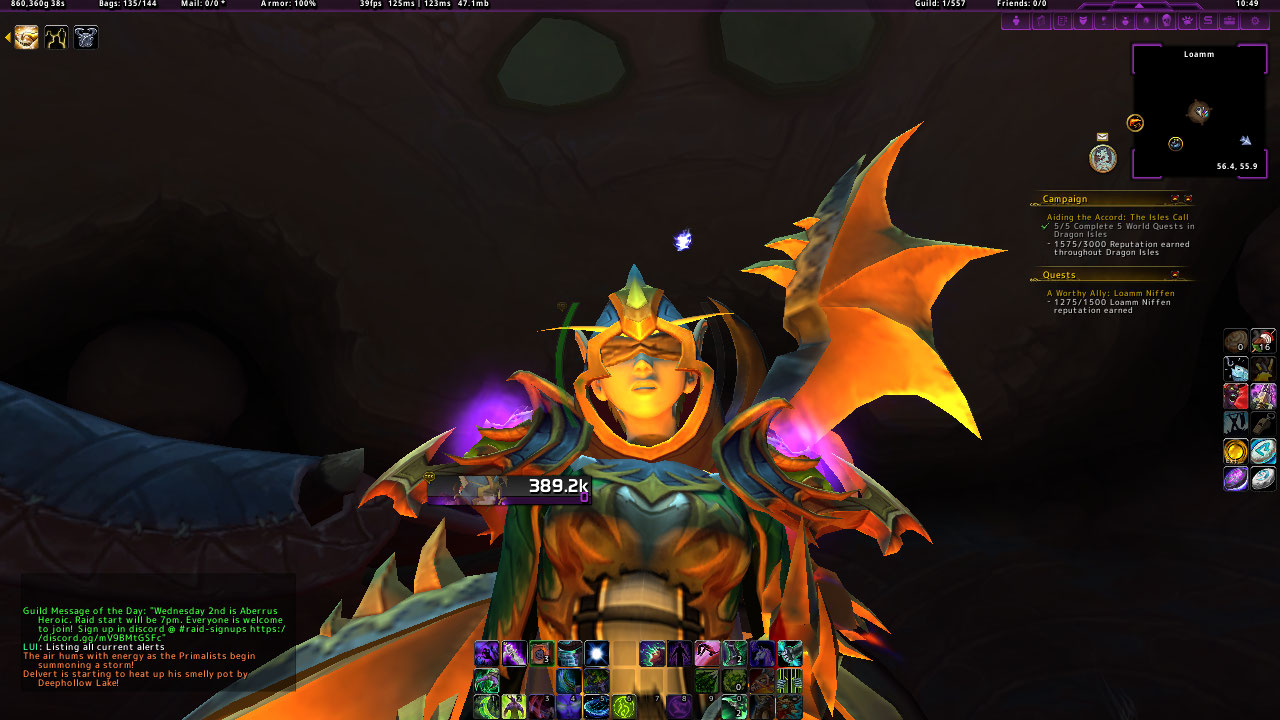
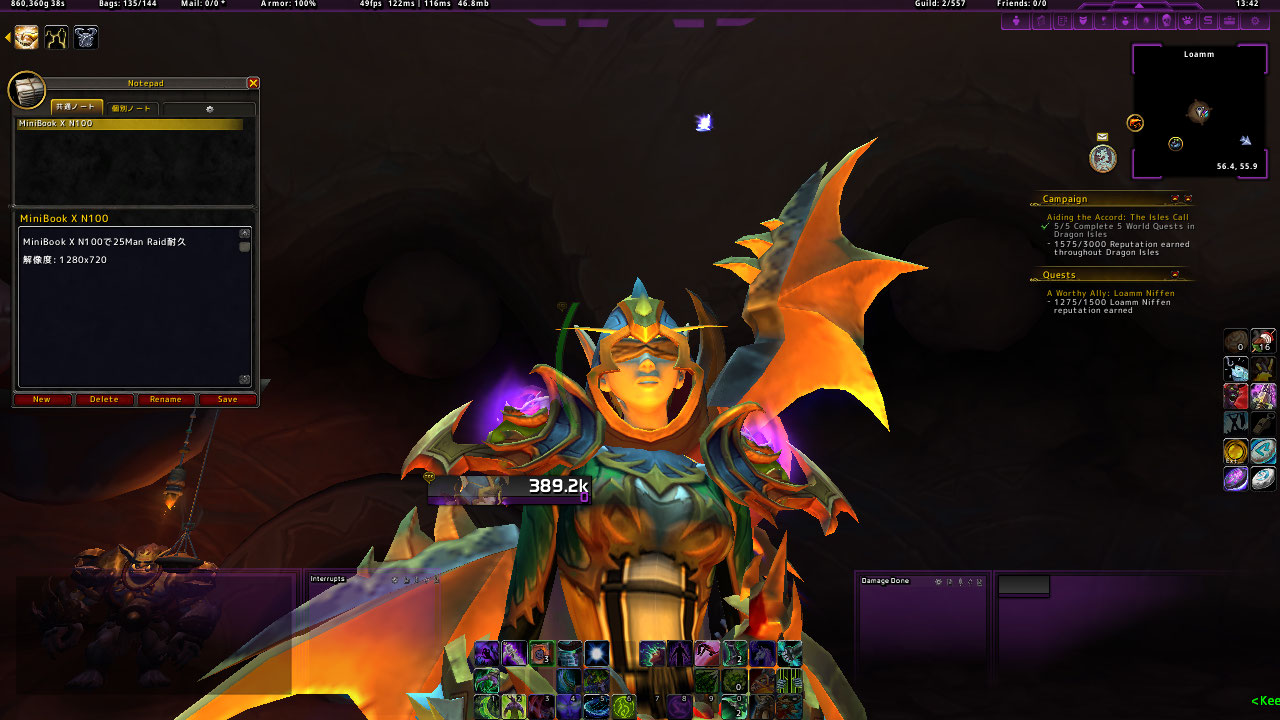
Hexo deploy

diff --git a/2023/08/08/CHUWI-Minibook-X-N100/index.html b/2023/08/08/CHUWI-Minibook-X-N100/index.html
@@ -171,7 +171,7 @@
 <li>A: Windows 11 Home</li>
 <li>B: Ubuntu 23.04</li>
 </ul>
-<h4 id="本体確認結果-動作OK-✔-動作せず-✗-未確認"><a href="#本体確認結果-動作OK-✔-動作せず-✗-未確認" class="headerlink" title="本体確認結果 (動作OK: ✔ &#x2F; 動作せず: ✗ &#x2F; 未確認:  )"></a>本体確認結果 (動作OK: ✔ &#x2F; 動作せず: ✗ &#x2F; 未確認: <code> </code>)</h4><div id="googleChart5669"></div>
+<h4 id="本体確認結果-動作OK-✔-動作せず-✗-未確認"><a href="#本体確認結果-動作OK-✔-動作せず-✗-未確認" class="headerlink" title="本体確認結果 (動作OK: ✔ &#x2F; 動作せず: ✗ &#x2F; 未確認:  )"></a>本体確認結果 (動作OK: ✔ &#x2F; 動作せず: ✗ &#x2F; 未確認: <code> </code>)</h4><div id="googleChart9096"></div>
 <script>
   if (!window.google) {
     document.body.innerHTML = 'You need to include the script //google.com/jsapi on your template';
@@ -180,13 +180,13 @@
     (function() {
       google.load('visualization', '1.0', {'packages': ["corechart","geochart","table"]});
       google.setOnLoadCallback(function() {
-        (new google.visualization.Table(document.getElementById("googleChart5669"))).draw(google.visualization.arrayToDataTable([['項目', '仕様', 'A', 'B'],['CPU', 'Intel Alder Lake-N100', "✔", "✔"],['メモリ', '12GB (LPDDR5)', "✔", "✔"],['ストレージ', '512GB (NVMe SSD)', "✔", "✔"],['内蔵ディスプレイ', 'IPS 10.51 inch 1920×1200', "✔", "✔"],['タッチスクリーン', '', "✔", "✔"],['タッチパッド', '', "✔", "✔"],['キーボード/バックライト', '', "✔", "✔"],['Wi-Fi', 'Wi-Fi 6', "✔", "✔"],['Bluetooth', 'Bluetooth 5.2', "", ""],['Audio Jack', '3.5mm (ステレオ)', "✔", "✔"],['内蔵スピーカ', '', "✔", "✔"],['内蔵マイク', '', "", ""],['内蔵カメラ', '', "✔", "✔"],['USB Port #1 (奥)', 'Type-C USB 3.0', "✔", "✔"],['USB Port #2 (手前)', 'Type-C USB 3.0', "✔", "✔"]]),{"showRowNumber":true,"title":"No title","width":"100%","height":"100%"});
+        (new google.visualization.Table(document.getElementById("googleChart9096"))).draw(google.visualization.arrayToDataTable([['項目', '仕様', 'A', 'B'],['CPU', 'Intel Alder Lake-N100', "✔", "✔"],['メモリ', '12GB (LPDDR5)', "✔", "✔"],['ストレージ', '512GB (NVMe SSD)', "✔", "✔"],['内蔵ディスプレイ', 'IPS 10.51 inch 1920×1200', "✔", "✔"],['タッチスクリーン', '', "✔", "✔"],['タッチパッド', '', "✔", "✔"],['キーボード/バックライト', '', "✔", "✔"],['Wi-Fi', 'Wi-Fi 6', "✔", "✔"],['Bluetooth', 'Bluetooth 5.2', "", ""],['Audio Jack', '3.5mm (ステレオ)', "✔", "✔"],['内蔵スピーカ', '', "✔", "✔"],['内蔵マイク', '', "", ""],['内蔵カメラ', '', "✔", "✔"],['USB Port #1 (奥)', 'Type-C USB 3.0', "✔", "✔"],['USB Port #2 (手前)', 'Type-C USB 3.0', "✔", "✔"]]),{"showRowNumber":true,"title":"No title","width":"100%","height":"100%"});
       });
     })();
   }
 </script>
 
-<h4 id="外部機器接続確認結果"><a href="#外部機器接続確認結果" class="headerlink" title="外部機器接続確認結果"></a>外部機器接続確認結果</h4><div id="googleChart1381"></div>
+<h4 id="外部機器接続確認結果"><a href="#外部機器接続確認結果" class="headerlink" title="外部機器接続確認結果"></a>外部機器接続確認結果</h4><div id="googleChart4603"></div>
 <script>
   if (!window.google) {
     document.body.innerHTML = 'You need to include the script //google.com/jsapi on your template';
@@ -195,7 +195,7 @@
     (function() {
       google.load('visualization', '1.0', {'packages': ["corechart","geochart","table"]});
       google.setOnLoadCallback(function() {
-        (new google.visualization.Table(document.getElementById("googleChart1381"))).draw(google.visualization.arrayToDataTable([['項目', '仕様', 'A', 'B'],['外部ディスプレイ接続', '4K Dell', "✔", "✔"],['外部タッチスクリーンディスプレイ', 'FHD Touch Screen(USB Type-C)', "✔", ""],['ゲームパッド', 'Microsoft', "", ""],['Bluetooth ヘッドセット #1', 'Sony', "", ""],['Bluetooth ヘッドセット #2', '', "", ""],['USB Camera', 'Logi', "", ""],['USB Mouse', 'Logi', "", ""],['Bluetooth Mouse', 'Logi', "", ""],['タッチペン', '', "", ""],['USB-LAN', '', "", ""],['Video Capture', '別PC のHDMI出力 → MiniBook X のUSB-Cポート', "", ""]]),{"showRowNumber":true,"title":"No title","width":"100%","height":"100%"});
+        (new google.visualization.Table(document.getElementById("googleChart4603"))).draw(google.visualization.arrayToDataTable([['項目', '仕様', 'A', 'B'],['外部ディスプレイ接続', '4K Dell', "✔", "✔"],['外部タッチスクリーンディスプレイ', 'FHD Touch Screen(USB Type-C)', "✔", ""],['ゲームパッド', 'Microsoft', "", ""],['Bluetooth ヘッドセット #1', 'Sony', "", ""],['Bluetooth ヘッドセット #2', '', "", ""],['USB Camera', 'Logi', "", ""],['USB Mouse', 'Logi', "", ""],['Bluetooth Mouse', 'Logi', "", ""],['タッチペン', '', "", ""],['USB-LAN', '', "", ""],['Video Capture', '別PC のHDMI出力 → MiniBook X のUSB-Cポート', "", ""]]),{"showRowNumber":true,"title":"No title","width":"100%","height":"100%"});
       });
     })();
   }
@@ -217,16 +217,14 @@
 <li>Visual Studio Code またはcode-server<br><a href="https://ktkr3d.github.io/Visual-Studio-Code/">https://ktkr3d.github.io/Visual-Studio-Code/</a></li>
 <li>Kodi<br><a target="_blank" rel="noopener" href="https://kodi.tv/download/windows/">https://kodi.tv/download/windows/</a></li>
 <li>左 Alt を無変換モード、右 Alt をかな漢字変換モード<br>alt-ime-ahk<br><a target="_blank" rel="noopener" href="https://github.com/karakaram/alt-ime-ahk/releases">https://github.com/karakaram/alt-ime-ahk/releases</a><br>自動起動にしておく</li>
-<li>Battle.net Client &#x2F; World of Warcraft<br><a target="_blank" rel="noopener" href="https://www.blizzard.com/ja-jp/download">https://www.blizzard.com/ja-jp/download</a><br>1280x720の解像度にして25人Raidプレイに耐えられました。これはすごい！<!--
-![](/images/wow_minibookx.jpg)
---></li>
+<li>Battle.net Client &#x2F; World of Warcraft<br><a target="_blank" rel="noopener" href="https://www.blizzard.com/ja-jp/download">https://www.blizzard.com/ja-jp/download</a><br>1280x720の解像度にして25人Raidプレイに耐えられました。これはすごい！<br>Havoc Demon Hunter以外でも試したい<br><img src="/images/wow_minibookx.jpg"></li>
 </ul>
 <h4 id="Ubuntu-23-04"><a href="#Ubuntu-23-04" class="headerlink" title="Ubuntu 23.04"></a>Ubuntu 23.04</h4><p><img src="/images/minibookx-ubuntu.png"></p>
 <ul>
 <li>Ubunutu ISO<br><a target="_blank" rel="noopener" href="https://ubuntu.com/download/desktop">https://ubuntu.com/download/desktop</a><br>Ventoy USBメモリにISO をコピー、USB Type-C ⇔ Type-A 変換経由でブート</li>
 <li>gparted で512GB(477GiB)ストレージのパーティションを再構成</li>
 </ul>
-<div id="googleChart7124"></div>
+<div id="googleChart763"></div>
 <script>
   if (!window.google) {
     document.body.innerHTML = 'You need to include the script //google.com/jsapi on your template';
@@ -235,7 +233,7 @@
     (function() {
       google.load('visualization', '1.0', {'packages': ["corechart","geochart","table"]});
       google.setOnLoadCallback(function() {
-        (new google.visualization.BarChart(document.getElementById("googleChart7124"))).draw(google.visualization.arrayToDataTable([['Name', 'EFI (100MiB)', 'Reserved (128MiB)', 'Win (400GiB)', 'Ubuntu (74.85GiB)', 'Recovery (1.87GiB)'],['出荷時', 10, 10, 447, 0, 10],['再構成', 10, 10, 365, 82, 10]]),{"isStacked":true,"legend":{"position":"top"},"title":" ","width":"100%","height":"100%"});
+        (new google.visualization.BarChart(document.getElementById("googleChart763"))).draw(google.visualization.arrayToDataTable([['Name', 'EFI (100MiB)', 'Reserved (128MiB)', 'Win (400GiB)', 'Ubuntu (74.85GiB)', 'Recovery (1.87GiB)'],['出荷時', 10, 10, 447, 0, 10],['再構成', 10, 10, 365, 82, 10]]),{"isStacked":true,"legend":{"position":"top"},"title":" ","width":"100%","height":"100%"});
       });
     })();
   }
@@ -252,7 +250,7 @@ Mainline Kernels アプリからカーネル6.4をインストール</li>
 <ul>
 <li>一時的に第一入力メソッドに切り替える: ー</li>
 <li>入力メソッドを有効にする: 右 Alt</li>
-<li>入力メソッドをオフにする: 左 Alt</li>
+<li>入力メソッドをオフにする: 左 Alt<br>Altでメニューバーにフォーカスする場合があるので2回連続押下するとよいかも</li>
 </ul>
 </li>
 </ul>
